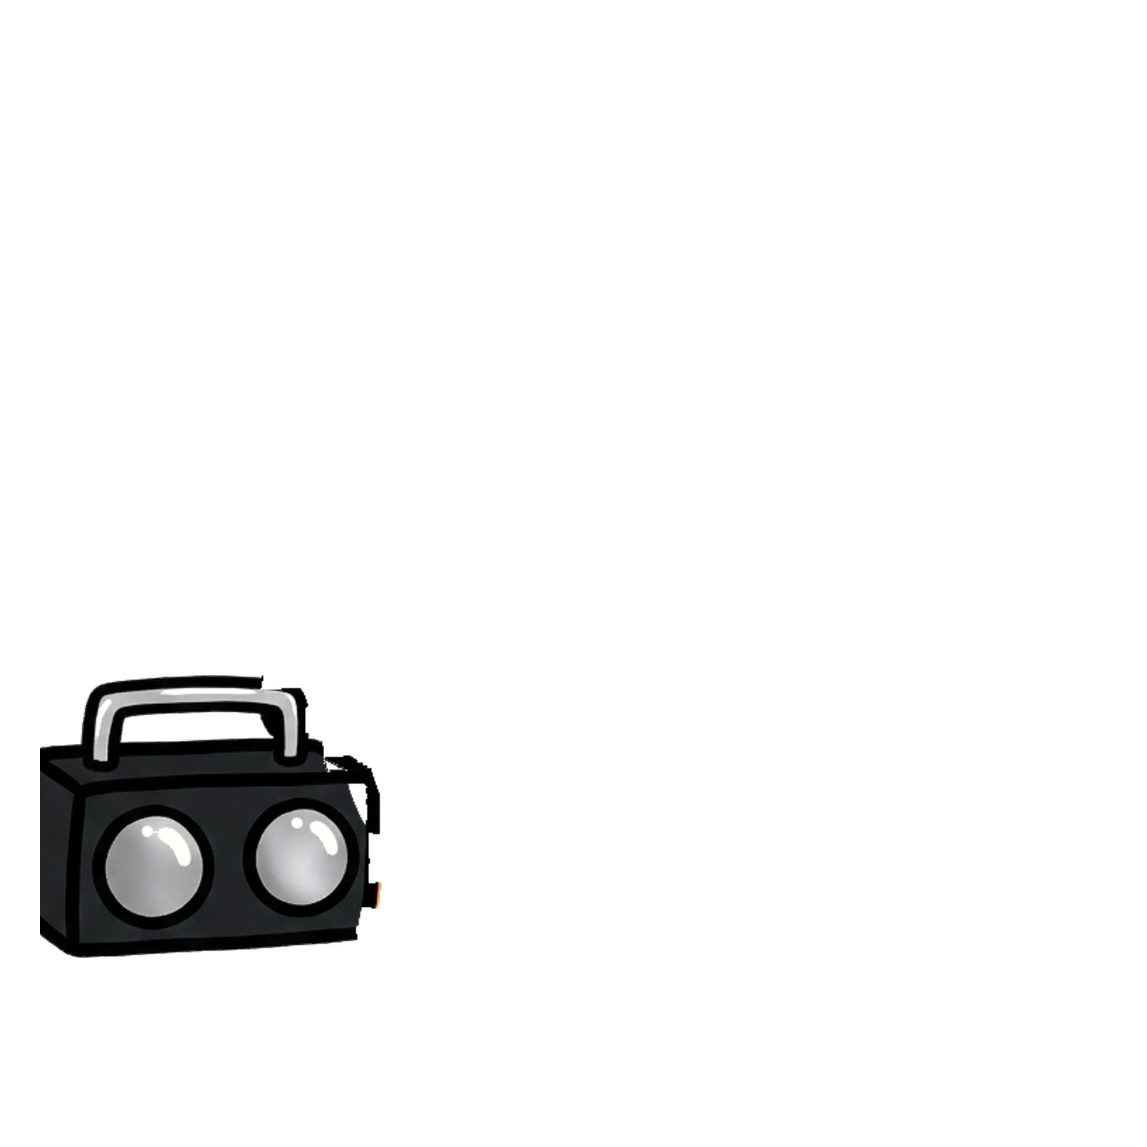
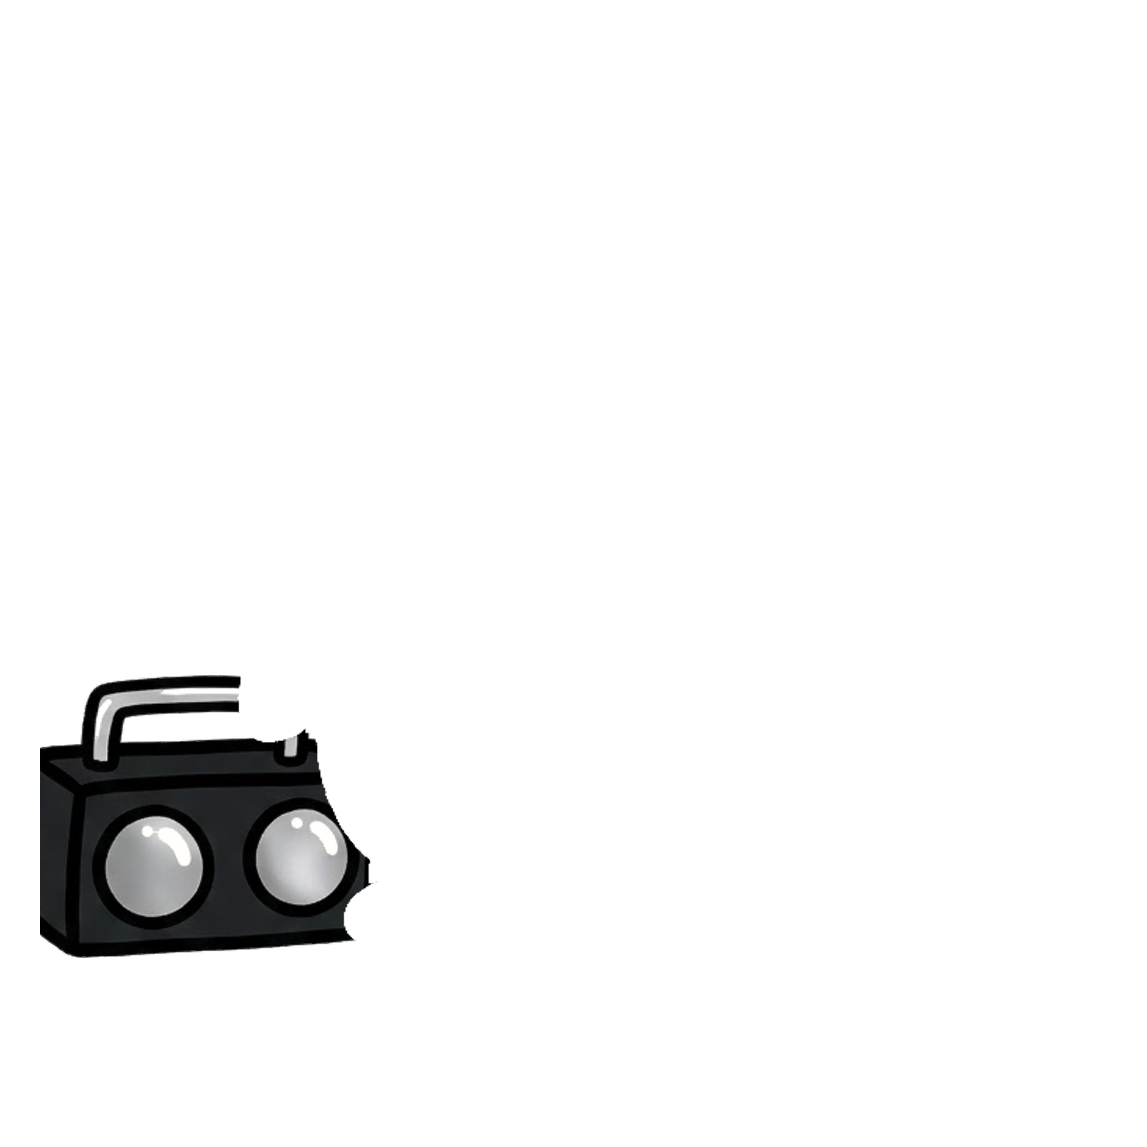
Fix 10 accessories from the random audit: edge clips closed, items tucked behind PING
birdhouse and mailbox were cut by the canvas left edge: shifted right and the
cut closed with an outline. plant-pot, washing-machine, fire-hydrant, boombox,
pC-gamer, pS5-(right), xbox-gamer and rocket drew over the flipper or foot:
masked behind the base like the other accessories. Defringed.
CARD_RENDER_VERSION 7.

Changed region(s): [[0.2746, 0.6408, 0.3357, 0.8239], [0.2136, 0.5798, 0.2746, 0.6713]]

diff --git a/functions/_lib.ts b/functions/_lib.ts
@@ -640,7 +640,7 @@ export const cleanPingMessage = (raw: string): string | null => {
  * a redesign gets a fresh render instead of the stored old one. Links made
  * before a bump keep resolving to the card they were made with.
  */
-export const CARD_RENDER_VERSION = 6;
+export const CARD_RENDER_VERSION = 7;
 
 /**
  * The string hashed into a share id: the render version, the traits, and the
